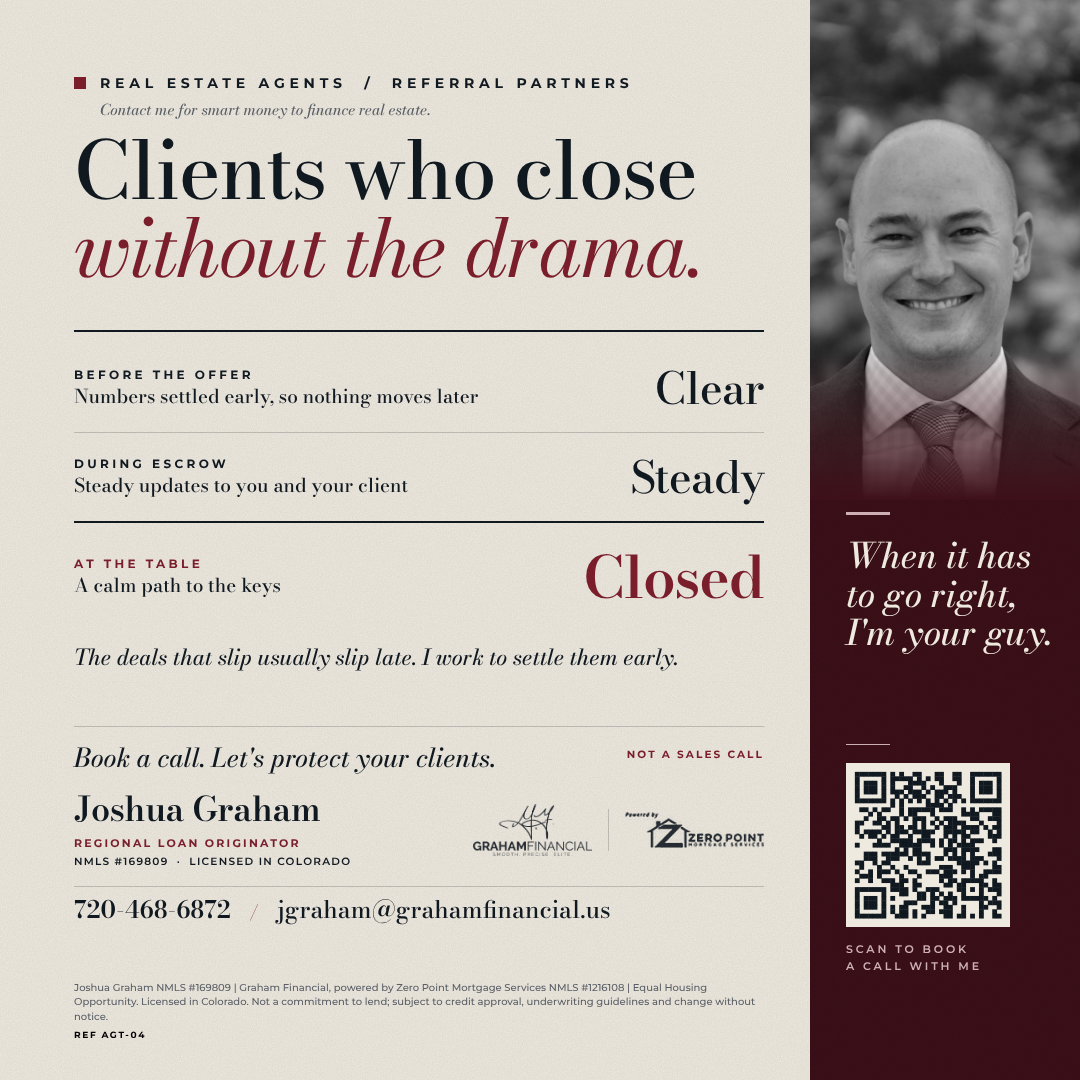
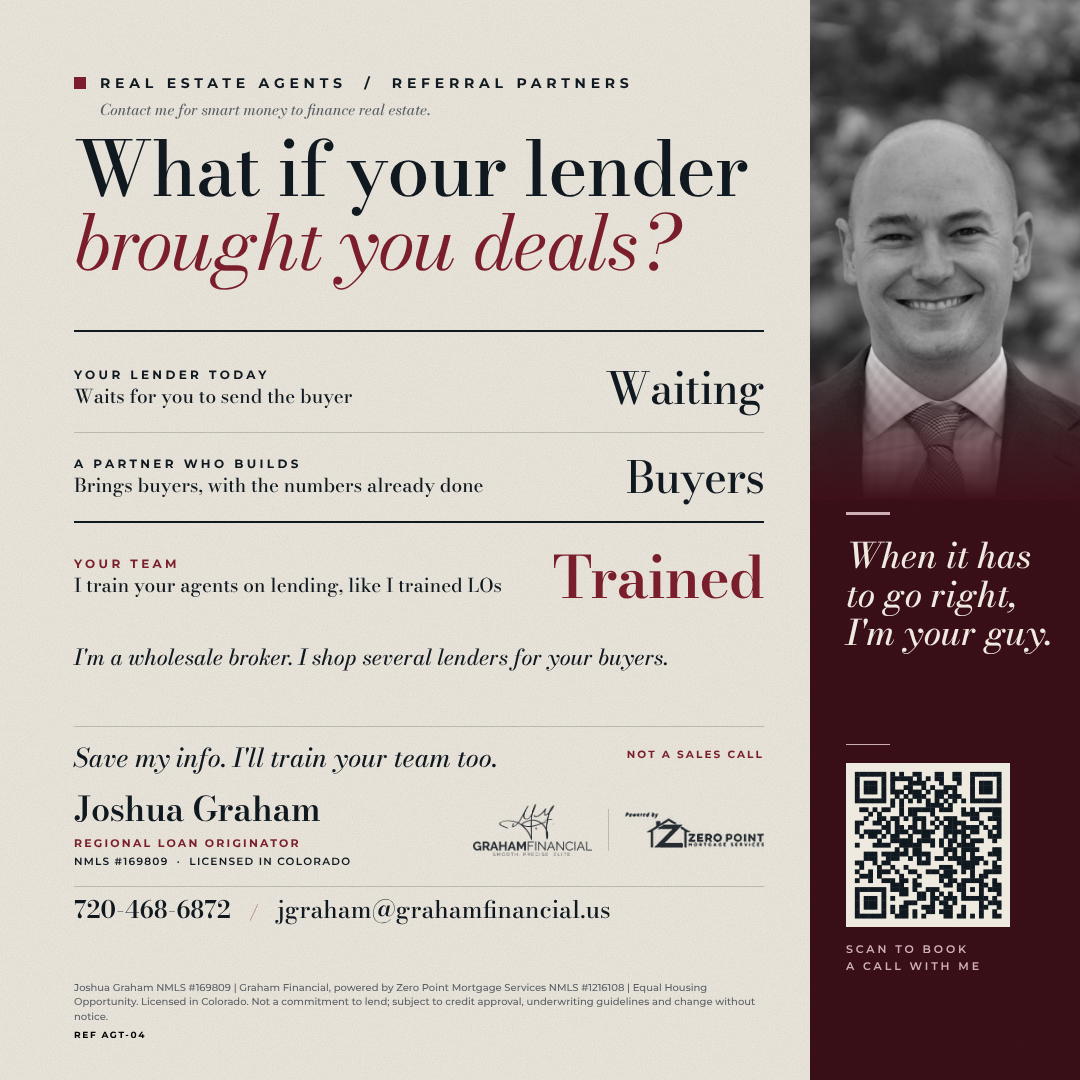
Bond agent set: lender-brings-deals, max-loan, silent deal shrinker flyers and copy
Claude-Session: https://claude.ai/code/session_01BCcskEaN45pwtrM4t2VKHx

diff --git a/src/smart-money/data.js b/src/smart-money/data.js
@@ -1307,35 +1307,51 @@ Book a call and I'll show you what owning could mean for YOU. It's not a sales c
     },
   },
   {
-    ref: "AGT-04", campaign: "bond", lane: "agent", bank: "agents", name: "Agents: Clients Who Close Without the Drama (receipt)", lender: "N/A — call; route to the matching scenario",
+    ref: "AGT-04", campaign: "bond", lane: "agent", bank: "agents", name: "Agents: What if your lender brought you deals (receipt)", lender: "N/A — call; route to the matching scenario",
     audience: "agent", license: "none", flyer: "/smart-money/flyers/AGT-04.png", footer: "intro",
-    cta: `Book a call and let's protect your clients. It's not a sales call. When it has to go right, I'm your guy. Save my info. 👉 ${BRAND.booking}`,
+    cta: `Save my info and I'll train your team too. It's not a sales call. When it has to go right, I'm your guy. 👉 ${BRAND.booking}`,
     painPoints: [], magnet: "book-5", skool: "Agents",
-    highlights: ["Numbers settled early, so nothing moves later", "Steady updates to you and your client", "A calm path to the keys"],
-    notes: "New-look rebuild of AGT-02 (that one stays in Smart Money). Words, not numbers: no payment amounts, so no Reg Z. Agent footer is the agent version; ask ZPM whether RESPA language is wanted for agent-facing ads. Goal: agents refer because clients reach the table smoothly.",
-    short: `Agents: the deals that slip usually slip late. A surprise in the numbers, a missing document, a buyer who goes quiet.\n\nI work to settle the numbers early and keep you and your client updated, so they close calmly and thank you for it.\n\nBook a call and let's protect your clients. It's not a sales call.`,
-    long: `Most deals don't fall apart at the offer. They fall apart late, on a surprise, a missing document or a buyer who stops answering.\n\nHere's how I handle it:\n\n- Before the offer: numbers settled early, so nothing moves later.\n- During escrow: steady updates to you and your client.\n- At the table: a calm path to the keys.\n\nThe kind of closing your client remembers when they refer their friends to you.\n\nBook a call and let's protect your clients. It's not a sales call. When it has to go right, I'm your guy. Save my info.`,
+    highlights: ["Most lenders wait for your buyer", "I build ready buyers and match them to agents by market", "I train your team on lending"],
+    notes: "Agent offer per Joshua: a partner who brings deals, plus he trains their team on lending. Buyers matched by market fit, not built yet in GUP.",
+    short: `What if your lender brought you deals instead of waiting for yours?\n\nMost lenders sit by the phone until you send a buyer. I work the other side: I build buyers who are ready, with the numbers already done, and I match them to agents by market.\n\nI'm a wholesale broker, so I shop several lenders for your buyers, and they get access to the best rates, not just one bank's.\n\nI'll train your team on lending too, just like I trained other loan officers.\n\nSave my info and let's talk about your market. It's not a sales call. When it has to go right, I'm your guy.`,
+    long: `Quick question for agents: what is your lender doing to grow your business?\n\n- Most lenders wait for you to send the buyer.\n- I build buyers who are ready, with the numbers already done, and match them to agents by market.\n- I'll train your team on lending too, just like I trained other loan officers.\n\nHere's how I'm different. I'm a wholesale broker, so I shop several lenders for your buyers, and they get access to the best rates, not just one bank's.\n\nSave my info and let's talk about your market. It's not a sales call. When it has to go right, I'm your guy.`,
     video: {
-      title: "Clients who close without the drama",
-      hook: "Your deal won't die at the offer. It dies at the surprise.",
-      points: ["Where deals really slip: late numbers and silence", "Settle it early, update steadily", "How we work together"],
-      cta: "Book a consultation call with me. It's not a sales call. When it has to go right, I'm your guy. Save my info.",
+      title: "What if your lender brought you deals",
+      hook: "What if your lender brought you deals?",
+      points: ["Most lenders wait for your buyer", "I build ready buyers and match them to agents by market", "I train your team on lending"],
+      cta: "Save my info and I'll train your team too. It's not a sales call. When it has to go right, I'm your guy.",
     },
   },
   {
-    ref: "AGT-05", campaign: "bond", photoDefault: "plum", lane: "agent", bank: "agents", name: "Agents: A Closing Your Client Thanks You For (receipt)", lender: "N/A — call; route to the matching scenario",
+    ref: "AGT-05", campaign: "bond", photoDefault: "plum", lane: "agent", bank: "agents", name: "Agents: Are your buyers getting the most they qualify for (receipt)", lender: "N/A — call; route to the matching scenario",
     audience: "agent", license: "none", flyer: "/smart-money/flyers/AGT-05.png", footer: "intro",
-    cta: `Book a call and let's make your next closing the easy one. It's not a sales call. When it has to go right, I'm your guy. Save my info. 👉 ${BRAND.booking}`,
+    cta: `Save my info and I'll train your team too. It's not a sales call. When it has to go right, I'm your guy. 👉 ${BRAND.booking}`,
     painPoints: [], magnet: "book-5", skool: "Agents",
-    highlights: ["Your client sees their real numbers before they write offers", "You get updates and aren't chasing anyone", "A client who sends their friends to you"],
-    notes: "New-look rebuild of AGT-03 (that one stays in Smart Money). Words, not numbers: no Reg Z. Plum-suit photo by default. Ask ZPM whether RESPA language is wanted for agent-facing ads.",
-    short: `Agents: what do your clients say about the closing?\n\nI get them their real numbers before they write offers, keep you updated so you aren't chasing anyone, and work toward a closing they thank you for. That's how clients end up sending their friends to you.\n\nThink of me when you want your closings to go amazingly well. Book a call. It's not a sales call.`,
-    long: `The best listing or buyer-agent marketing is a client who tells their friends how smooth the closing was.\n\n- Your client sees their real numbers before they write offers.\n- You get steady updates, so you aren't chasing anyone.\n- The result is a client who refers their friends to you.\n\nThink of me when you want your closings to go amazingly well.\n\nBook a call. It's not a sales call. When it has to go right, I'm your guy. Save my info.`,
+    highlights: ["One bank, one rate sheet is the limit", "A wholesale broker shops several lenders", "More buyer, lower rate, deal closes"],
+    notes: "Per Joshua: most agents aren't working with a wholesale broker, so buyers aren't getting the maximum loan amount they can qualify for.",
+    short: `Are your buyers getting the most they qualify for?\n\nIf your lender is one bank with one rate sheet, probably not. Most agents aren't working with a wholesale broker, so their buyers see one set of guidelines and one rate.\n\nI'm a wholesale broker, so I shop several lenders for your buyers, and they get access to the best rates, not just one bank's.\n\nMore buyer, a lower rate and a deal that closes. I'll train your team on lending too, just like I trained other loan officers.\n\nSave my info. It's not a sales call. When it has to go right, I'm your guy.`,
+    long: `Here's a question most agents never ask their lender: is my buyer getting the maximum loan they qualify for?\n\n- Most lenders: one bank, one set of guidelines, one rate sheet.\n- A wholesale broker: several lenders, and the best fit for each buyer.\n- The result: more buyer, a lower rate and a deal that closes.\n\nHere's how I'm different. I'm a wholesale broker, so I shop several lenders for your buyers, and they get access to the best rates, not just one bank's.\n\nI'll train your team on lending too, just like I trained other loan officers.\n\nSave my info. It's not a sales call. When it has to go right, I'm your guy.`,
     video: {
-      title: "A closing your client thanks you for",
-      hook: "Your next referral starts at the closing table.",
-      points: ["Early numbers for your client", "Steady updates so you aren't chasing", "A client who refers their friends"],
-      cta: "Book a consultation call with me. It's not a sales call. When it has to go right, I'm your guy. Save my info.",
+      title: "Are your buyers getting the most they qualify for",
+      hook: "Are your buyers getting the most they qualify for?",
+      points: ["One bank, one rate sheet is the limit", "A wholesale broker shops several lenders", "More buyer, lower rate, deal closes"],
+      cta: "Save my info and I'll train your team too. It's not a sales call. When it has to go right, I'm your guy.",
+    },
+  },
+  {
+    ref: "AGT-06", campaign: "bond", lane: "agent", bank: "agents", name: "Agents: Your buyer loves the house, the payment doesn't reach (receipt)", lender: "N/A — call; route to the matching scenario",
+    audience: "agent", license: "none", flyer: "/smart-money/flyers/AGT-06.png", footer: "intro",
+    cta: `Save my info and I'll train your team too. It's not a sales call. When it has to go right, I'm your guy. 👉 ${BRAND.booking}`,
+    painPoints: [], magnet: "book-5", skool: "Agents",
+    highlights: ["A $3,000 payment, as the example", "A half-point lower rate", "About $20K to $25K more purchase price"],
+    notes: "Silent Deal Shrinker insight from Joshua. Example numbers; the footer says so.",
+    short: `Your buyer loves the house. The payment doesn't reach.\n\nThat's the silent deal shrinker. On a buyer who can hold a $3,000 payment, a half-point lower rate can be worth about $20,000 to $25,000 more purchase price.\n\nI'm a wholesale broker, so I shop several lenders for your buyers, and they get access to the best rates, not just one bank's.\n\nI'll train your team on lending too, just like I trained other loan officers.\n\nSave my info. It's not a sales call. When it has to go right, I'm your guy.`,
+    long: `You've been here: the buyer loves the house, and the payment is just past what they can hold.\n\n- Payment your buyer can hold, all in (example): $3,000.\n- A half-point lower rate, which a wholesale broker can often find.\n- Purchase price that opens up, same payment: about $20,000 to $25,000 more.\n\nThat is how deals shrink quietly, and how they get saved.\n\nHere's how I'm different. I'm a wholesale broker, so I shop several lenders for your buyers, and they get access to the best rates, not just one bank's.\n\nI'll train your team on lending too, just like I trained other loan officers.\n\nSave my info. It's not a sales call. When it has to go right, I'm your guy.`,
+    video: {
+      title: "Your buyer loves the house, the payment doesn't reach",
+      hook: "Your buyer loves the house. The payment doesn't reach.",
+      points: ["A $3,000 payment, as the example", "A half-point lower rate", "About $20K to $25K more purchase price"],
+      cta: "Save my info and I'll train your team too. It's not a sales call. When it has to go right, I'm your guy.",
     },
   },
   {

diff --git a/dist/index.html b/dist/index.html
@@ -7,7 +7,7 @@
     <meta name="theme-color" content="#1e6e4a" />
     <link rel="manifest" href="/manifest.json" />
     <title>Get Unlocked Producer</title>
-    <script type="module" crossorigin src="/assets/main-3ef40046.js"></script>
+    <script type="module" crossorigin src="/assets/main-1cf3d2c7.js"></script>
     <link rel="modulepreload" crossorigin href="/assets/client-aa6f12be.js">
     <link rel="modulepreload" crossorigin href="/assets/supabase-3cfa4bd6.js">
   </head>

diff --git a/tools/flyers/gen_elite.py b/tools/flyers/gen_elite.py
@@ -210,19 +210,26 @@ CARDS = {
         receipt_note="Estimates can be off in either direction. Let&#39;s start with a real number.",
         rpad=22, rule_top=330, cta="Book a call. I&#39;ll give you a game plan.", foot=FOOT_EQ, foot_px=9.5),
     "AGT-04": dict(palette="burgundy", kicker="REAL ESTATE AGENTS &nbsp;/&nbsp; REFERRAL PARTNERS", **COMMON,
-        h1=["Clients who close"], h1_accent="without the drama.", h1_px=80,
-        receipt=[("BEFORE THE OFFER", "Numbers settled early, so nothing moves later", "Clear", False),
-                 ("DURING ESCROW", "Steady updates to you and your client", "Steady", False),
-                 ("AT THE TABLE", "A calm path to the keys", "Closed", True)],
-        receipt_note="The deals that slip usually slip late. I work to settle them early.",
-        rpad=22, rule_top=330, cta="Book a call. Let&#39;s protect your clients.", foot=FOOT_AGENT, foot_px=10),
+        h1=["What if your lender"], h1_accent="brought you deals?", h1_px=76,
+        receipt=[("YOUR LENDER TODAY", "Waits for you to send the buyer", "Waiting", False),
+                 ("A PARTNER WHO BUILDS", "Brings buyers, with the numbers already done", "Buyers", False),
+                 ("YOUR TEAM", "I train your agents on lending, like I trained LOs", "Trained", True)],
+        receipt_note="I&#39;m a wholesale broker. I shop several lenders for your buyers.",
+        rpad=22, rule_top=330, cta="Save my info. I&#39;ll train your team too.", foot=FOOT_AGENT, foot_px=10),
     "AGT-05": dict(palette="peacock", kicker="REAL ESTATE AGENTS &nbsp;/&nbsp; REFERRAL PARTNERS", **COMMON,
-        h1=["A closing your client"], h1_accent="thanks you for.", h1_px=76,
-        receipt=[("YOUR CLIENT SEES", "Their real numbers before they write offers", "Early", False),
-                 ("YOU GET", "Updates, so you aren&#39;t chasing anyone", "Steady", False),
-                 ("THE RESULT", "A client who sends their friends to you", "Referrals", True)],
-        receipt_note="Think of me when you want your closings to go amazingly well.",
-        rpad=22, rule_top=330, cta="Book a call. Let&#39;s make your next closing easy.", foot=FOOT_AGENT, foot_px=10),
+        h1=["Are your buyers getting"], h1_accent="the most they qualify for?", h1_px=62,
+        receipt=[("MOST LENDERS", "One bank, one set of guidelines, one rate sheet", "1", False),
+                 ("A WHOLESALE BROKER", "Several lenders, the best fit for each buyer", "Several", False),
+                 ("THE RESULT", "More buyer, a lower rate and a deal that closes", "More", True)],
+        receipt_note="I&#39;m a wholesale broker. I shop several lenders for your buyers.",
+        rpad=22, rule_top=330, cta="Save my info. I&#39;ll train your team too.", foot=FOOT_AGENT, foot_px=10),
+    "AGT-06": dict(palette="scarlet", kicker="REAL ESTATE AGENTS &nbsp;/&nbsp; REFERRAL PARTNERS", **COMMON,
+        h1=["Your buyer loves the house."], h1_accent="The payment doesn&#39;t reach.", h1_px=52,
+        receipt=[("THE PAYMENT YOUR BUYER CAN HOLD", "Example, all in", "$3,000", False),
+                 ("A HALF-POINT LOWER RATE", "What a wholesale broker can often find", "&minus;0.5%", False),
+                 ("THE HOUSE THEY CAN NOW REACH", "More purchase price, same payment", "+$20K&ndash;25K", True)],
+        receipt_note="I&#39;m a wholesale broker. I shop several lenders for your buyers.",
+        rpad=22, rule_top=330, cta="Save my info. I&#39;ll train your team too.", foot=FOOT_AGENT + " Example only: a $3,000 payment, a half-point lower rate and the added purchase price are illustrative and vary by scenario.", foot_px=9.5),
     "WHY-01": dict(palette="scarlet", kicker="HOMEBUYERS &nbsp;/&nbsp; EVERYWHERE", **COMMON,
         h1=["Buyers leave $65 billion"], h1_accent="a year on the table.", h1_px=58,
         receipt=[("THE NATIONAL TOTAL", "Overpaid on mortgages, every year", "$65 billion", False),
@@ -241,7 +248,7 @@ CARDS = {
 }
 
 # ---- Photo toggle. Every Bond flyer is rendered five ways: REF.png (the default), REF-tie, REF-plum, REF-check, REF-text.
-BOND_REFS = ["PAY-01","PAY-02","PAY-03","PAY-04","DWN-01","DWN-02","DWN-03","WLT-01","WLT-02","WLT-03","EQT-01","EQT-02","EQT-03","CRD-01","CRD-02","AGT-04","AGT-05","TRU-01","WHY-01"]
+BOND_REFS = ["PAY-01","PAY-02","PAY-03","PAY-04","DWN-01","DWN-02","DWN-03","WLT-01","WLT-02","WLT-03","EQT-01","EQT-02","EQT-03","CRD-01","CRD-02","AGT-04","AGT-05","AGT-06","TRU-01","WHY-01"]
 PHOTO_DEFAULT = {"PAY-01": "tie", "CRD-01": "check", "DWN-02": "plum", "EQT-02": "tie", "AGT-05": "plum", "TRU-01": "tie"}   # everything else defaults to text-only
 PHOTOS = {
     "tie":   dict(file="joshua-park-smile.jpg", h=500, size=720, x=-440, y=-40),
